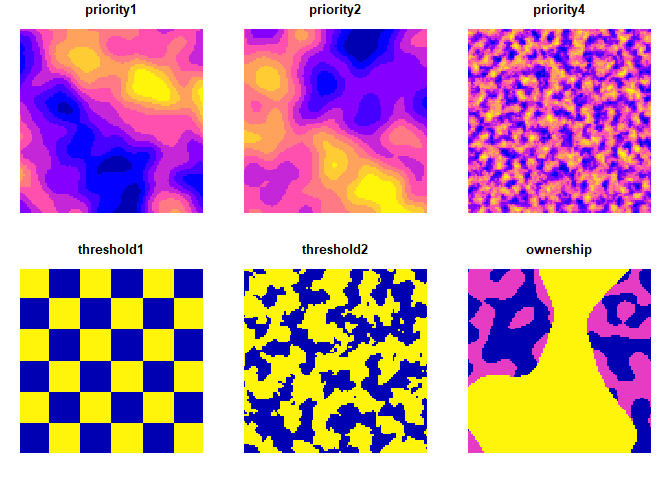
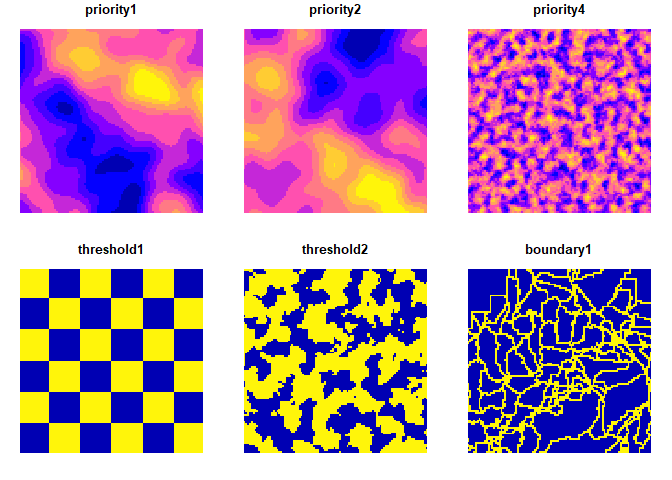
Updated readme
particularly regarding patchmax and combine_priorities

diff --git a/README.md b/README.md
@@ -24,31 +24,17 @@ windows desktop GUI (ForSysX) and an R version (ForSysR).
 
 The current official version of the *forsys* package can be installed
 from [GitHub](https://github.com/forsys-sp/forsysr/) using the following
-code. The repository is private, so users need to create a personal
-access token in order to install the package in R. The token can be
-generated by going to the following url
-(<https://github.com/settings/tokens>): (1) log into your github
-account, (2) add a brief description to the token (required), (3) set
-the expiration date, and (4) click on the checkbox for ‘repo’. Add that
-token text string to the *remotes::install_github* function below and R
-will download and install the *forsys* package to your computer. Note
-that in order to use the *Patchmax* package, you need to install that
-package as well. *Patchmax* is a binary package and the correct version
-should be downloaded based on the user’s operating system (currently
-available for either Mac or Windows) from the *forsys* repository:
-<https://github.com/forsys-sp/forsysr/releases/tag/Patchmax_0.1.1>. We
-recommend updating other packages when prompted.
+code. Note that in order to use the *patchmax* package, you need to
+install that package as well. The current official version of the
+*patchmax* package can be installed from
+[GitHub](https://github.com/forsys-sp/patchmax/).
+
+We recommend updating other packages when prompted.
 
 ``` r
 if (!require(remotes)) install.packages("remotes")
-remotes::install_github("forsys-sp/forsysr", auth_token = 'your_token_here')
-
-#Windows
-remotes::install_deps("your_filepath_here/Patchmax_0.1.1.zip")
-install.packages("your_filepath_here/Patchmax_0.1.1.zip", repos = NULL, type = "win.binary")
-#Mac
-remotes::install_deps("your_filepath_here/Patchmax_0.1.1.tgz")
-install.packages("your_filepath_here/Patchmax_0.1.1.tgz", repos = NULL, type = "mac.binary")
+remotes::install_github("forsys-sp/forsysr")
+remotes::install_github("forsys-sp/patchmax")
 ```
 
 ## Usage
@@ -80,22 +66,32 @@ data(test_forest)
 head(test_forest)
 ```
 
-    ## Simple feature collection with 6 features and 10 fields
+    ## Simple feature collection with 6 features and 16 fields
     ## Geometry type: POLYGON
     ## Dimension:     XY
     ## Bounding box:  xmin: -1805472 ymin: 2689815 xmax: -1799472 ymax: 2690815
     ## Projected CRS: NAD83 / Conus Albers
-    ## # A tibble: 6 x 11
     ##   stand_id proj_id area_ha priority1 priority2 priority3 priority4 threshold1
-    ##      <int>   <int>   <dbl>     <dbl>     <dbl>     <dbl>     <dbl>      <dbl>
-    ## 1        1       1     100     0.417     0.526     0.483     0.513          1
-    ## 2        2       1     100     0.418     0.488     0.482     0.646          1
-    ## 3        3       1     100     0.419     0.452     0.482     0.661          1
-    ## 4        4       1     100     0.422     0.420     0.481     0.604          1
-    ## 5        5       1     100     0.428     0.392     0.479     0.621          1
-    ## 6        6       1     100     0.438     0.369     0.477     0.514          1
-    ## # ... with 3 more variables: threshold2 <dbl>, ownership <dbl>,
-    ## #   geometry <POLYGON [m]>
+    ## 1        1      86     100      0.42      0.53      0.48      0.51          1
+    ## 2        2      86     100      0.42      0.49      0.48      0.65          1
+    ## 3        3      86     100      0.42      0.45      0.48      0.66          1
+    ## 4        4      86     100      0.42      0.42      0.48      0.60          1
+    ## 5        5      86     100      0.43      0.39      0.48      0.62          1
+    ## 6        6      86     100      0.44      0.37      0.48      0.51          1
+    ##   threshold2 boundary1 boundary2 cluster1 cluster2 cluster3 mosaic1 mosaic2
+    ## 1          1         0         0        0        1        0       2       3
+    ## 2          1         0         0        2        1        0       2       3
+    ## 3          1         0         0        2        0        0       1       3
+    ## 4          1         0         0        2        0        0       1       3
+    ## 5          1         0         0        2        0        1       2       3
+    ## 6          0         0         0        2        0        1       2       3
+    ##                         geometry
+    ## 1 POLYGON ((-1805472 2690815,...
+    ## 2 POLYGON ((-1804472 2690815,...
+    ## 3 POLYGON ((-1803472 2690815,...
+    ## 4 POLYGON ((-1802472 2690815,...
+    ## 5 POLYGON ((-1801472 2690815,...
+    ## 6 POLYGON ((-1800472 2690815,...
 
 ``` r
 # plot the treatment units
@@ -125,11 +121,10 @@ plot(test_forest[,c('proj_id','priority1')], border=NA)
 
 ![](README_files/figure-gfm/unnamed-chunk-5-1.png)<!-- -->
 
-We run *forsys* with the following arguments. Remember that these can
-also be run using the json config file, as described above. *Forsys*
-always writes its outputs to csv files saved within the output folder,
-but we can optionally set it to write that data out to a list which has
-three elements containing the outputs.
+We run *forsys* with the following arguments. *Forsys* always writes its
+outputs to csv files saved within the output folder, but we can
+optionally set it to write that data out to a list which has three
+elements containing the outputs.
 
 ``` r
 stand_dat <- test_forest %>% st_drop_geometry()
@@ -150,7 +145,7 @@ run_outputs <- forsys::run(
 ```
 
 Not surprisingly, the treatment rank of the projects selected
-corresponds directly to those areas where are priority was highest, as
+corresponds directly to those areas where priority1 was highest, as
 plotted below. Projeck rank \#1 (darkest blue) is the highest ranked
 project.
 
@@ -167,11 +162,11 @@ Below we plot the stands rather than the project rank and only retain
 those stands that were treated.
 
 ``` r
-plot_dat_2 <- test_forest %>%
-  select(stand_id, proj_id) %>%
-  inner_join(run_outputs$stand_output %>% select(stand_id)) %>%
+plot_dat_2 <- test_forest %>% select(stand_id) %>%
+  left_join(run_outputs$stand_output %>% mutate(stand_id = as.integer(stand_id))) %>%
+  select(stand_id, priority1, proj_id) %>%
   left_join(run_outputs$project_output %>% select(proj_id, treatment_rank))
-  plot(plot_dat_2[,'treatment_rank'], border=NA, main="Project rank by stand")
+plot(plot_dat_2[,c('treatment_rank','priority1')], border=NA)
 ```
 
 ![](README_files/figure-gfm/unnamed-chunk-8-1.png)<!-- -->
@@ -185,13 +180,14 @@ that areas where priority 1 are highest tend to be lower for priority 2.
 plot(test_forest[,c('priority1','priority2')], border=NA)
 ```
 
-![](README_files/figure-gfm/unnamed-chunk-9-1.png)<!-- --> Let’s see if
-*forsys* can find locations where we can achieve both objectives. We
-prioritize on both variables, priority1 and priority2. We run *forsys*
-weighting the two objectives from 0 to 5, which results in 21 scenarios.
-We then filter the results to observe the outcome of the scenario where
-the two objectives are equally weighted. The project rank graph
-represents areas that are highest in both priorities.
+![](README_files/figure-gfm/unnamed-chunk-9-1.png)<!-- -->
+
+Let’s see if *forsys* can find locations where we can achieve both
+objectives. We prioritize on both variables, priority1 and priority2. We
+run *forsys* weighting the two objectives from 0 to 5, which results in
+21 scenarios. We then filter the results to observe the outcome of the
+scenario where the two objectives are equally weighted. The project rank
+graph represents areas that are highest for both priorities.
 
 ``` r
 run_outputs_3 = forsys::run(
@@ -208,7 +204,14 @@ run_outputs_3 = forsys::run(
   proj_target_field = "area_ha",
   proj_target_value = 2000
 )
+```
 
+Notice we will need to filter the outputs to find the scenario where
+each priority is equally weighted. We do this by filtering the priority
+scores. Pr_1 indicates the first priority score, and Pr_2 indicates the
+second priority score.
+
+``` r
 plot_dat_3 <- test_forest %>%
   group_by(proj_id) %>% summarize() %>%
   left_join(run_outputs_3$project_output %>% filter(Pr_1_priority1 == 1 & Pr_2_priority2 == 1) %>% 
@@ -217,10 +220,24 @@ plot_dat_3 <- test_forest %>%
 plot(plot_dat_3[,'treatment_rank'], main="Project rank for two priorities")
 ```
 
-![](README_files/figure-gfm/unnamed-chunk-10-1.png)<!-- --> We expand on
-this scenario further by limiting stand selection to a single ownership.
+![](README_files/figure-gfm/unnamed-chunk-11-1.png)<!-- -->
+
+Alternatively we could pass *forsys* the weighted scenario alone, rather
+than running through all the weights and the 21 scenario outcomes. Here
+we will utilize the combine_priorities function that we call outside of
+the *forsys* run function.
 
 ``` r
+# Create a new combined priority variable to pass directly to our priority weightings based on priority 1 and priority 2
+test_forest <- test_forest %>% forsys::combine_priorities(
+  fields = c('priority1','priority2'), 
+  weights = c(1,1), 
+  new_field = 'combo_priority')
+
+# Recreate our input dataset
+stand_dat <- test_forest %>% st_drop_geometry()
+
+# Rerun forsys with the same scenario, passing the combo_priority as the new priority
 run_outputs_4 = forsys::run(
   return_outputs = TRUE,
   scenario_name = "test_scenario",
@@ -228,9 +245,7 @@ run_outputs_4 = forsys::run(
   stand_id_field = "stand_id",
   proj_id_field = "proj_id",
   stand_area_field = "area_ha",
-  stand_threshold = "ownership == 2",
-  scenario_priorities = c("priority1","priority2"),
-  scenario_weighting_values = c("0 5 1"),
+  scenario_priorities = c("combo_priority"),
   scenario_output_fields = c("area_ha", "priority1", "priority2", "priority3", "priority4"),
   proj_fixed_target =  TRUE,
   proj_target_field = "area_ha",
@@ -239,59 +254,93 @@ run_outputs_4 = forsys::run(
 
 plot_dat_4 <- test_forest %>%
   group_by(proj_id) %>% summarize() %>%
-  left_join(run_outputs_4$project_output %>% filter(Pr_1_priority1 == 1 & Pr_2_priority2 == 1) %>% 
-              select(proj_id, treatment_rank))
-
-plot(plot_dat_4[,'treatment_rank'], main="Project rank for two priorities on ownership2")
+  left_join(run_outputs_4$project_output %>% select(proj_id, treatment_rank))
+plot(plot_dat_4[,'treatment_rank'], main="Project rank")
 ```
 
-![](README_files/figure-gfm/unnamed-chunk-11-1.png)<!-- -->
+![](README_files/figure-gfm/unnamed-chunk-12-1.png)<!-- -->
+
+Let’s make this scenario a bit more complex by using a stand threshold
+and limiting stand selection to locations where threshold2 = 1 (yellow
+areas in the map below).
+
+``` r
+plot(test_forest[,c('combo_priority','threshold2')], border=NA)
+```
+
+![](README_files/figure-gfm/unnamed-chunk-13-1.png)<!-- -->
+
+Let’s run this scenario.
+
+``` r
+run_outputs_5 = forsys::run(
+  return_outputs = TRUE,
+  scenario_name = "test_scenario",
+  stand_data = stand_dat,
+  stand_id_field = "stand_id",
+  proj_id_field = "proj_id",
+  stand_area_field = "area_ha",
+  stand_threshold = "threshold2 == 1",
+  scenario_priorities = c("combo_priority"),
+  scenario_output_fields = c("area_ha", "priority1", "priority2", "priority3", "priority4"),
+  proj_fixed_target =  TRUE,
+  proj_target_field = "area_ha",
+  proj_target_value = 2000
+)
+
+plot_dat_5 <- test_forest %>%
+  group_by(proj_id) %>% summarize() %>%
+  left_join(run_outputs_5$project_output %>% select(proj_id, treatment_rank))
+
+plot(plot_dat_5[,'treatment_rank'], main="Project rank for two priorities for threshold2")
+```
+
+![](README_files/figure-gfm/unnamed-chunk-14-1.png)<!-- -->
 
 ### Exploring different project prioritization methods
 
 *Forsys* can build projects dynamically using a package called
-*Patchmax*, which requires some additional arguments.
+*patchmax*, which requires some additional arguments and a shapefile as
+the input. Here we will prioritize priority2 and build five 25,000
+hectare patches.
 
 ``` r
-library(Patchmax)
+library(patchmax)
 
-# first we need to create an object describing stand adjacency and for gridded data, distance
-adj = Patchmax::calculate_adj(test_forest, St_id = test_forest$stand_id, method='nb')
-dist = Patchmax::calculate_dist(test_forest)
-
-# then in the run functions we set the search distance weight to 10 to expand the search for high objective stands
-run_outputs_5 = forsys::run(
+# We will set run_with_patchmax to TRUE, then in the run functions we set the search distance weight to 1 to expand the search for high objective stands. We'll limit our search to test only 10% of the stands as patch seeds to speed up our run.
+run_outputs_6 = forsys::run(
   return_outputs = TRUE,
-  stand_data = stand_dat,
+  stand_data = test_forest,
   scenario_name = "patchmax_test",
   stand_id_field = "stand_id",
-  proj_id_field = "proj_id",
   stand_area_field = "area_ha",
   stand_threshold = "threshold2 >= 1",
   scenario_priorities = "priority2",
   scenario_output_fields = c("area_ha", "priority1", "priority2", "priority3", "priority4"),
   run_with_patchmax = TRUE,
-  patchmax_stnd_adj = adj,
   patchmax_proj_size = 25000,
-  patchmax_proj_number = 10,
-  patchmax_st_distance = dist,
-  patchmax_SDW = 10
+  patchmax_proj_number = 5,
+  patchmax_SDW = 1,
+  patchmax_sample_frac = 0.1
 )
 
-plot_dat_5 <- run_outputs_5$stand_output %>% mutate(treatment_rank = proj_id)
-plot_dat_5 <- test_forest %>% left_join(plot_dat_5 %>% select(stand_id, treatment_rank)) %>%
+# Plot treatment rank of patches
+
+plot_dat_6 <- run_outputs_6$stand_output %>% filter(DoTreat == 1) %>%
+  mutate(treatment_rank = proj_id, stand_id = as.integer(stand_id))
+plot_dat_6 <- test_forest %>% left_join(plot_dat_6 %>% select(stand_id, treatment_rank)) %>%
   group_by(treatment_rank) %>% summarize()
-plot(plot_dat_5[,'treatment_rank'], border=NA, main="Patch rank")
+plot(plot_dat_6[,'treatment_rank'], border=NA, main="Patch rank")
 ```
 
-![](README_files/figure-gfm/unnamed-chunk-12-1.png)<!-- -->
+![](README_files/figure-gfm/unnamed-chunk-15-1.png)<!-- -->
 
 ## Citation
 
 Please cite the *forsys* package when using it in publications. To cite
 the current official version, please use:
 
-> Houtman R, Evers C, Belavenutti P, Day M, and Ager A. (2022). ForSysR:
+> Houtman R, Evers C, Belavenutti P, Day M, and Ager A. (2023). ForSysR:
 > A scenario planning platform for modeling multi-criteria spatial
 > priorities in R. R package version 0.9. Available at
 > <https://github.com/forsys-sp/forsysr>.
